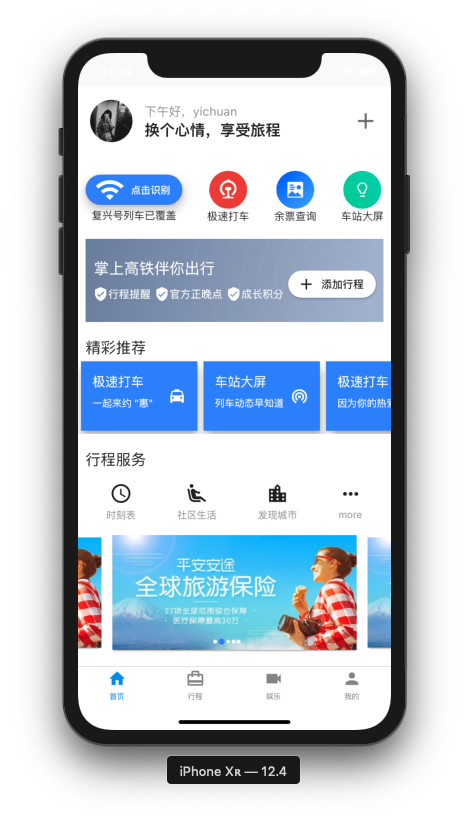
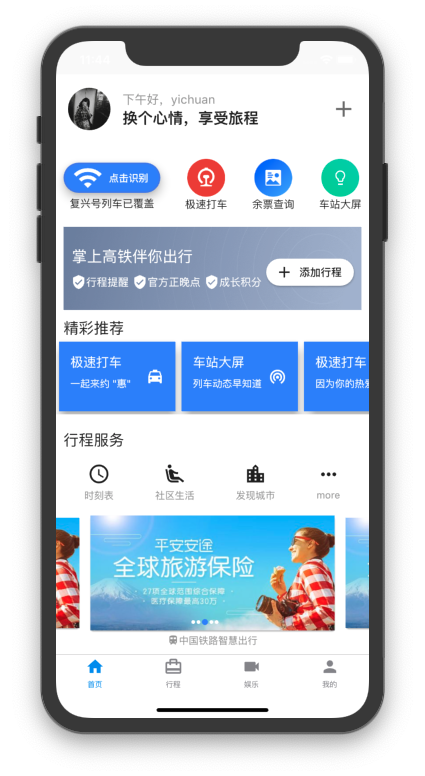
add home page

diff --git a/lib/home/home.dart b/lib/home/home.dart
@@ -1,6 +1,7 @@
 import 'package:flutter/cupertino.dart';
 import 'package:flutter/material.dart';
 import 'package:flutter_swiper/flutter_swiper.dart';
+
 class HomePage extends StatefulWidget {
   HomePage({Key key}) : super(key: key);
 
@@ -410,7 +411,6 @@ class _MyHomePageState extends State<HomePage> {
     );
   }
 
-
   ///图片轮播效果部件
   Widget swapPageView() {
     var container = new Container(
@@ -453,11 +453,25 @@ class _MyHomePageState extends State<HomePage> {
     return new Card(
       child: new Container(
         padding: const EdgeInsets.only(left: 0, bottom: 0),
-        child: Image.asset("assets/image/保险.jpeg", fit: BoxFit
-            .fill),
+        child: Image.asset("assets/image/保险.jpeg", fit: BoxFit.fill),
       ),
     );
   }
+
+  Widget _buttomBar() {
+    return Row(
+      mainAxisAlignment: MainAxisAlignment.center,
+      children: <Widget>[
+        Icon(
+          Icons.train,
+          size: 15,
+          color: Colors.grey,
+        ),
+        Text("中国铁路智慧出行", style: TextStyle(color: Colors.grey, fontSize: 13)),
+      ],
+    );
+  }
+
   ///
   Widget _builderBody() {
     return Container(
@@ -469,9 +483,6 @@ class _MyHomePageState extends State<HomePage> {
           _builderToolMenu(),
 //      添加行程
           _addTrip(),
-          SizedBox(
-            height: 10,
-          ),
           _hotLab("精彩推荐"),
           scrollBanner(),
           SizedBox(
@@ -480,6 +491,8 @@ class _MyHomePageState extends State<HomePage> {
           _hotLab("行程服务"),
           myService(),
           _swapBanner(),
+          //
+          _buttomBar(),
         ],
       ),
     );
